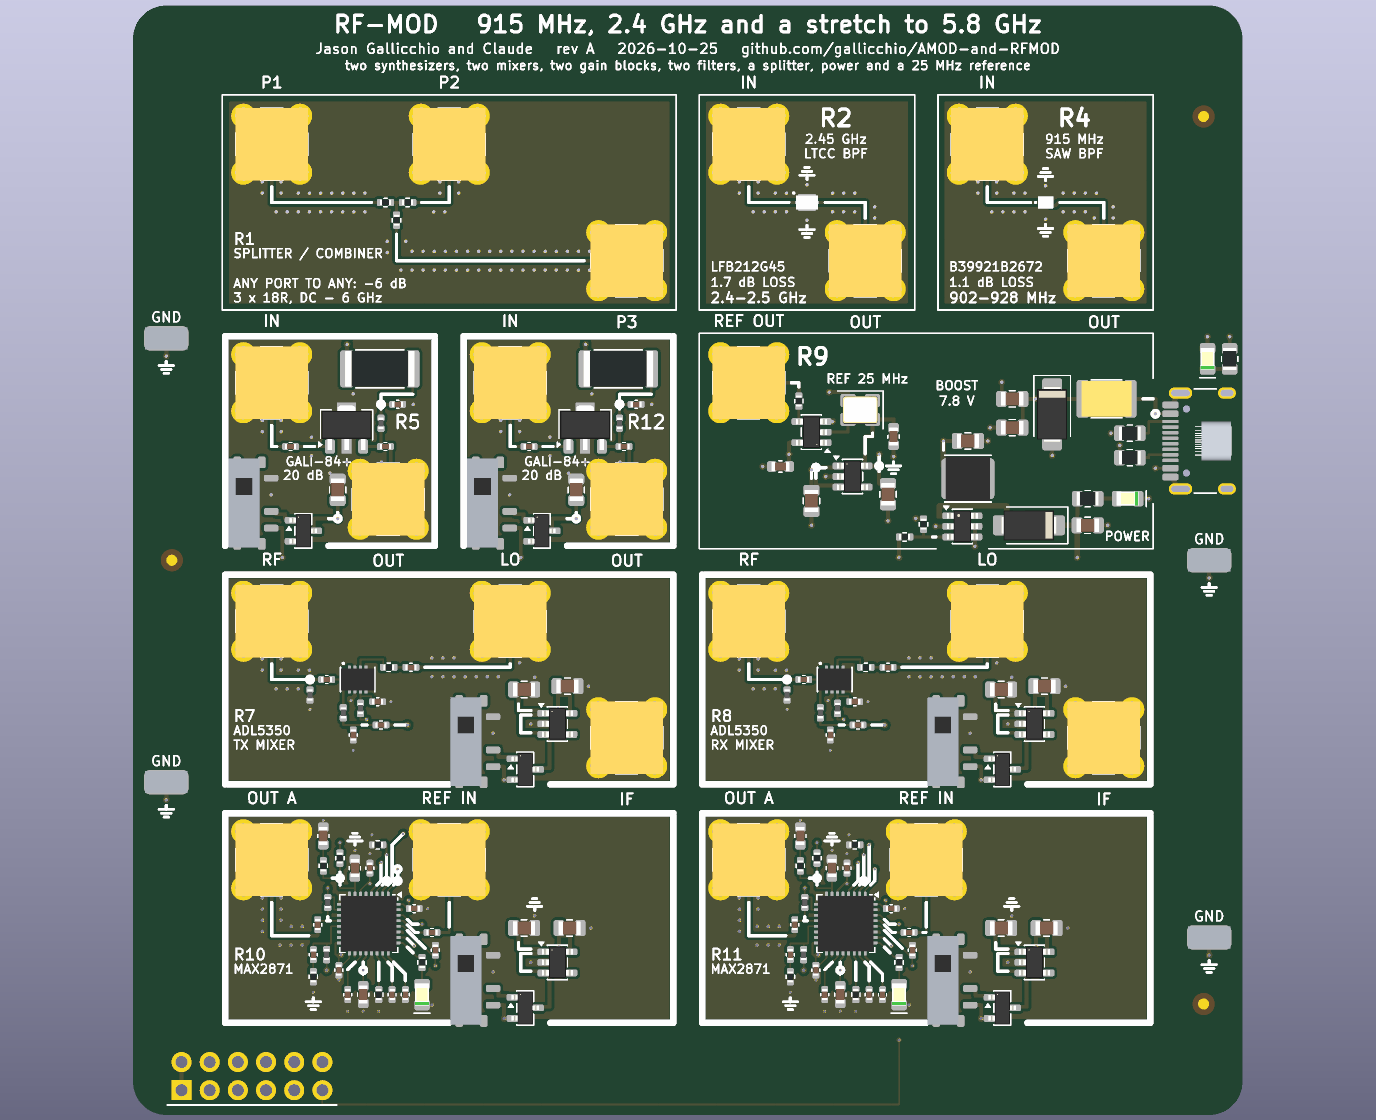
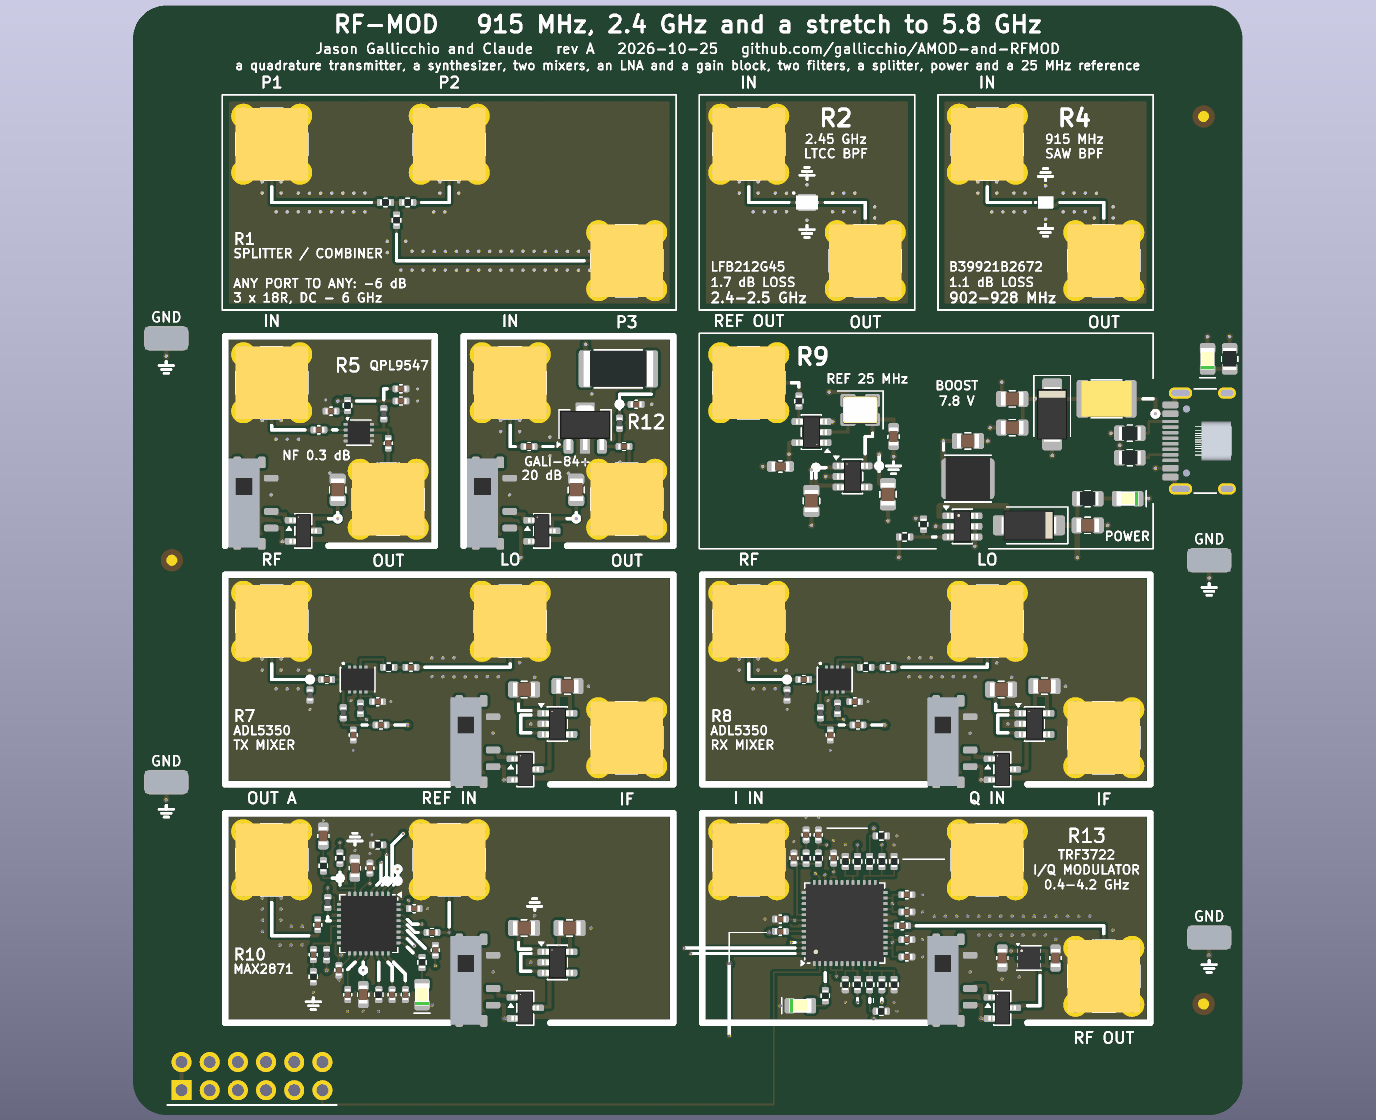
Appendix D: the first level checked again (A5 Doppler, A10 impedance, R5 QPL9547, R13 TRF3722); the second level as built (AMOD-2 $78.19, RF-MOD-2 $98.61) with renders and what changed from the plan
Claude-Session: https://claude.ai/code/session_01RKeoKvFFzjk3cEBLCXXHnB

diff --git a/tutorial/D_coming_soon.md b/tutorial/D_coming_soon.md
@@ -174,25 +174,31 @@ the day.  The boards, their generator, the handbooks and the night's record are 
 | board | tiles | jacks | layers | parts per board |
 | --- | --- | --- | --- | --- |
 | AMOD-P, passive | 13 | 27 | 2 | $16.97 |
-| AMOD-A, active, USB-C powered | 12 | 19 | 4 | $50.90 |
-| RF-MOD, 915 MHz and 2.4 GHz | 10 | 22 | 4 | $55.78 |
+| AMOD-A, active, USB-C powered | 12 | 19 | 4 | $50.40 |
+| RF-MOD, 915 MHz and 2.4 GHz | 10 | 22 | 4 | $57.19 |
 | Icepi Zero 2x12 adapter with a Pmod | | | 4 | three hand-soldered headers |
 
 ![The passive board as built: thirteen tiles on a 4 x 4 grid of 20 mm cells, each tile's IN jack at its top-left corner and OUT at its bottom-right, its wiring drawn on the silkscreen between them](img/amod_p_render.png)
 
 ![The active board as built: twelve powered tiles, each with its own slide switch, a USB-C power tile on the right edge and the Pmod plug at the left end of the bottom edge](img/amod_a_render.png)
 
-![The RF board as built: a splitter, two filters, two gain blocks, the power and reference tile, two mixers and two synthesizers, every 50 ohm line a coplanar waveguide with a via fence](img/rf_mod_render.png)
+![The RF board as built: a splitter, two filters, a QPL9547 low-noise amplifier and a gain block, the power and reference tile, two mixers, a synthesizer and a TRF3722 quadrature transmitter, every 50 ohm line a coplanar waveguide with a via fence](img/rf_mod_render.png)
 
 What changed from the plan below, and why:
 
 - **Fitting 20 mm cells.**  Several AMOD-A tiles lost a variant, a DIP switch or a test loop to the cell's room
   beside the power switch and its FET.  The handbook lists what each tile kept.
-- **RF-MOD is one complete link on one reference.**  The QPL9547 LNA had no stock and the LTC5510 mixers had 35.
-  Two GALI-84+ gain blocks and two ADL5350 mixers (LF to 4 GHz, passive, either direction) took their places.  When
-  Jason asked for the board to be filled with tiles that work together, the RFX2401C front end, the TRF3722 and
-  the printed antennas made way for a second gain block, the second mixer and a splitter.  SMA whips replace the
-  antennas.
+- **RF-MOD is one complete link on one reference.**  The LTC5510 mixers had 35 in stock; two ADL5350 mixers (LF to
+  4 GHz, passive, either direction) took their places.  When Jason asked for the board to be filled with tiles that
+  work together, the RFX2401C front end and the printed antennas made way for the second mixer and a splitter.  SMA
+  whips replace the antennas.
+- **Checked again against the ECP5-2ADC-2DAC board, before ordering.**  The host has its own Johnson-noise source,
+  photodiode amplifier and LED driver, so two AMOD-A tiles changed: A5 is now a socket and x101 amplifier for an
+  HB100 10.525 GHz Doppler module (5.08's speed gun, the only route above 6 GHz), and A10 an impedance and I-V tile
+  (a DIP-selected reference resistor and V and I outputs for the host's two ADCs).  On RF-MOD the QPL9547 LNA is in
+  (the taped QPL9547TR7 was in stock: 0.3 dB of noise figure instead of a second gain block), and a TRF3722
+  quadrature transmitter (R13) on the host's two DACs replaced the second synthesizer: an image-free transmitter
+  whose LO output drives a receive mixer coherently.
 - **Every jack in a checkerboard.**  Each tile takes IN at a cell's top-left corner and OUT at its bottom-right, so
   no two jacks on any board are closer than 14.85 mm (10.5 mm in the first layout, too close for two cables and
   fingers).  The circuit fills the other two quarters of the cell.  Two parts changed package to fit: the OPA847
@@ -652,6 +658,65 @@ a magnet you own, the NV-centre and rubidium experiments worked out
 real carrier. Both are 100 × 100 mm, four layers, machine-assembled, with
 the same tile rules, the same SMA, test loops and left-end Pmod, and
 prices from JLCPCB's shelf on 2026-10-24.
+
+### Built: rev A, 2026-10-25
+
+Asked to fill the second level with "whatever would make the most interesting RF (physics and communications)
+tutorials", and told that these boards will almost certainly be used only with the ECP5-2ADC-2DAC board, Claude
+changed the plan below in one direction: every tile was chosen so that the host's two DACs and two ADCs each have a
+job (I and Q; incident and reflected; two antennas; signal and pump), and the optics tiles (the piezo driver, the
+bimorph, the TEC, the fast photodiode, the varactor-pulled crystal) went to a future optics board.  Both boards passed
+their electrical rules, their design rules and every fabrication check.
+
+| board | tiles | layers | parts per board |
+| --- | --- | --- | --- |
+| AMOD-2: HF, magnetic resonance and the reflectometer | 10 | 4 | $78.19 |
+| RF-MOD-2: coherent I/Q and microwave physics, 0.4-6 GHz | 11 | 4 | $98.61 |
+
+![AMOD-2 as built: ten tiles for DC to 30 MHz. Along the top, the NMR duplexer with its OPA847 preamplifier, the THS3491 pulse amplifier and the switched noise source; then the reflection bridge and the power tile with its USB-C, -5 V and +-15 V; the coupled resonators with their DIP switch and the laser driver with its bias-T; along the bottom, the two-channel HF receiver with the Pmod plug, the VLF loop amplifier and the coil driver with its two screw terminals](img/amod_2_render.png)
+
+AMOD-2 is a board for DC to 30 MHz, where the host samples directly:
+
+- **Pulsed NMR.**  A THS3491 pulse amplifier (1 W into 50 ohm from the DAC's +-1 V, gated by a Pmod line, on +-15 V
+  from a TPS65131), the textbook passive duplexer (crossed diodes, a quarter-wave cable) and an OPA847 preamplifier:
+  [7.07](7_07_bigger_ideas.md#707-bigger-ideas-nmr-mri-and-qubits)'s spin echo in a magnet of N52 cubes, at 13-21 MHz.
+  A DRV8876 coil driver adds a gradient (a one-dimensional image), a Helmholtz pair (ESR of DPPH) or an Earth's-field
+  prepolarizer.
+- **A reflection bridge.**  REFL / INC = Gamma, complex, at every frequency the DAC makes: the Smith chart, an NMR
+  probe's match, a crystal's motional arm, time-domain reflectometry.
+- **Coupled and parametric resonators.**  Two passive 10 MHz tanks tuned by varactors, read through 2.2 pF ports:
+  normal-mode splitting and the avoided crossing, an EIT analogue with one tank damped, and parametric gain with the
+  second DAC pumping at twice the frequency.
+- **The ionosphere.**  Two LMH6629 receive channels (WWV's Doppler, direction finding, FT8) and a VLF loop amplifier
+  (sferics, the Navy's 24 kHz stations, WWVB).
+- **Noise, and light.**  A switched avalanche-noise source (Y-factor noise figure, transfer functions from noise) and
+  a laser driver whose bias-T puts a synthesizer's gigahertz on the current: coherent population trapping in rubidium
+  and pulsed ODMR, with RF-MOD-2.
+
+![RF-MOD-2 as built: eleven tiles for 0.4 to 6 GHz. Along the top, the ODMR loop, the log detector, the low-noise amplifier and the GNSS front end; the splitter, the noise source and the power tile; the I/Q modulator and the I/Q demodulator; along the bottom, the synthesizer with the Pmod plug and the absorptive switch](img/rf_mod_2_render.png)
+
+RF-MOD-2 is a coherent transceiver: one MAX2871, locked to the host's CLK OUT and split, is the LO of an ADL5375 I/Q
+modulator (the host's DACs on I and Q) and an ADL5380 I/Q demodulator (the host's ADCs on I and Q), so the transmitter
+and the receiver share one phase and Chapter 6's modems run image-free on a real carrier.  Around it: the QPL9547
+LNA, an AD8318 log detector, a SKY13370 switch, a switched noise source, a GNSS front end for an active antenna, and a
+broadband loop for NV centres' microwave field.  With the host it is a radio link in any modulation, a vector network
+analyzer, a stepped-frequency radar, an ODMR setup, a GPS receiver and a Dicke radiometer.
+
+What changed from the plan below, and why:
+
+- **The hardware Costas loop and the VCXO receive synthesizer gave way to coherence.**  With one synthesizer split
+  to both mixers there is no carrier to recover in hardware; the gateware does what the loop would have done.
+- **The printed split-ring resonator became a through-line loop**, and the printed coupler a switch.  Printed RF
+  structures need a field solver for the stack and tuning on the bench; the loop works at 2.87 GHz and every Zeeman
+  line around it with no tuning.
+- **AMOD-2 kept the spins and lost the optics.**  The NMR tiles, the coil driver and the laser driver stayed; the
+  slow I<sup>2</sup>C converters, the instrumentation amplifier and the Hall sensor gave way to the bridge, the
+  resonators, the receivers and the noise source, which use both of the host's channels.
+- The tile numbers in the plan below are the plan's; the boards renumbered them.  The repository's
+  `PLAN_LEVEL2.md` has every change with its reason, `docs/HANDBOOK_amod_2.md` and `docs/HANDBOOK_rf_mod_2.md` the
+  experiments step by step, and `docs/KIT.md` what each needs beside the boards.
+
+The rest of this section is the plan as it stood before the boards were drawn.
 
 ### AMOD-2: lasers, piezos, spins and slow I/O
 
